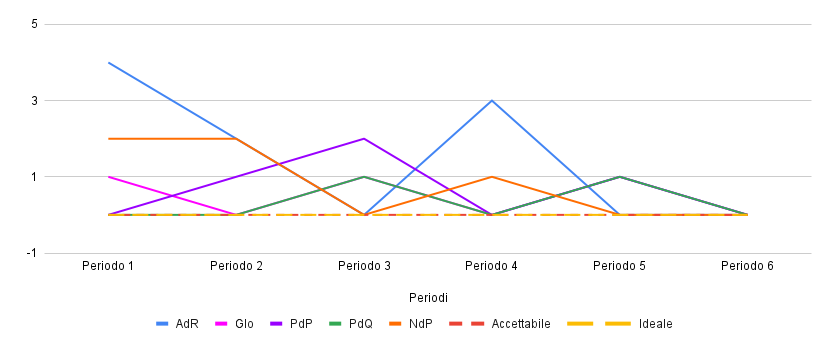
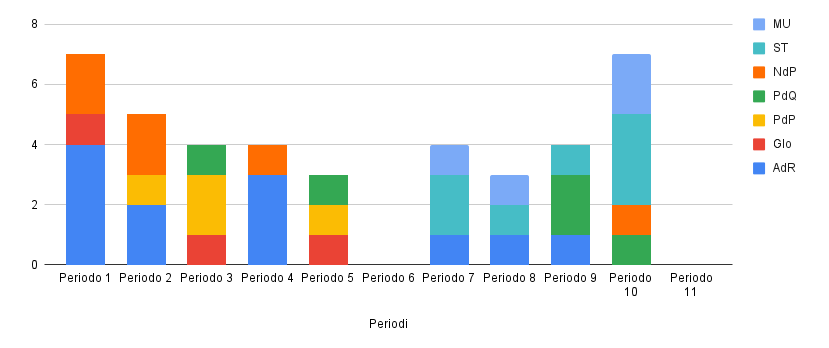
Aggionamento EO

diff --git a/PB/Documentazione Esterna/Piano_di_Qualifica.tex b/PB/Documentazione Esterna/Piano_di_Qualifica.tex
@@ -855,7 +855,7 @@ rispetto alle ultime iterazioni della prima fase.\\
 
 
 \subsection{Qualità di processo - Documentazione}
-\subsubsection{MPC01 - Errori ortografici}%TODO
+\subsubsection{MPC01 - Errori ortografici}
 
 \begin{figure}[H]
   \centering
@@ -871,7 +871,11 @@ presentato dei prevedibili aumenti in fasi di grande produzione di documentazion
 dei documenti privi di errori ortografici, e ciò è stato raggiunto, dato che almeno da parte nostra non ne sono stati individuati.\\
 
 \noindent
-\textbf{PB}:
+\textbf{PB}: Da notare che rispetto alla prima fase del progetto lo stile del grafico è stato modificato da grafico a linee a grafico a barre, per rendere più chiara 
+la lettura dei dati.\\
+Anche nel corso di questa seconda fase del progetto il gruppo ha mantenuto un numero di errori ortografici non conforme al valore accettabile per quasi 
+tutte le iterazioni, riuscendo però a consegnare al termine del progetto dei documenti quanto più possibile privi di errori ortografici. Anche in questo caso sono stati 
+registrati valori più elevati in corrispondenza di periodi di grande produzione di documentazione (sopratutto nel 10 sprint).
 
 
 \subsubsection{MPC11 - Indice Gulpease}%TODO
